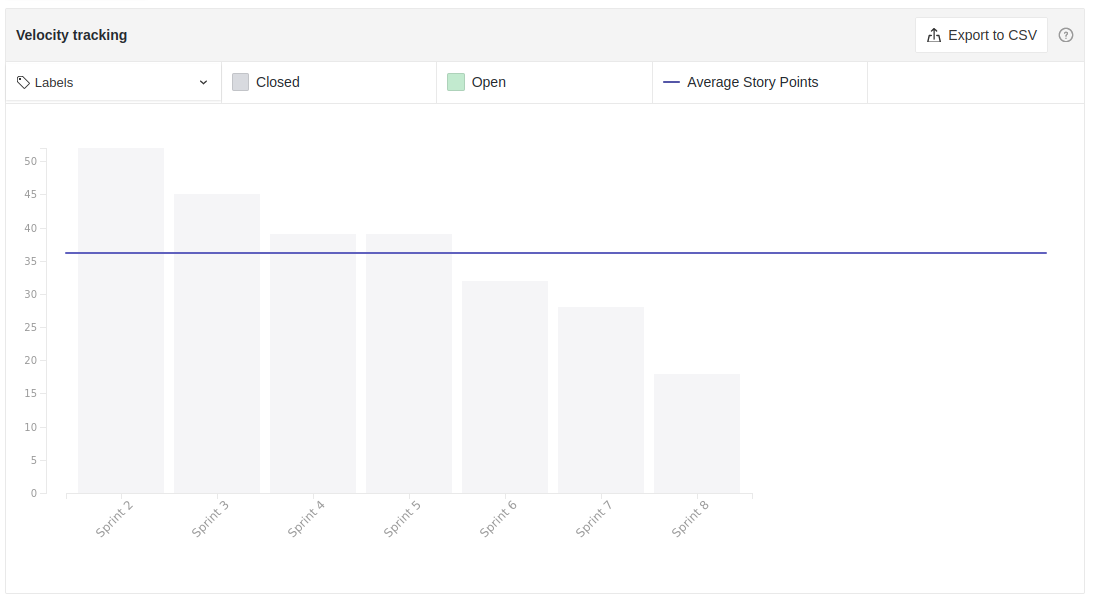
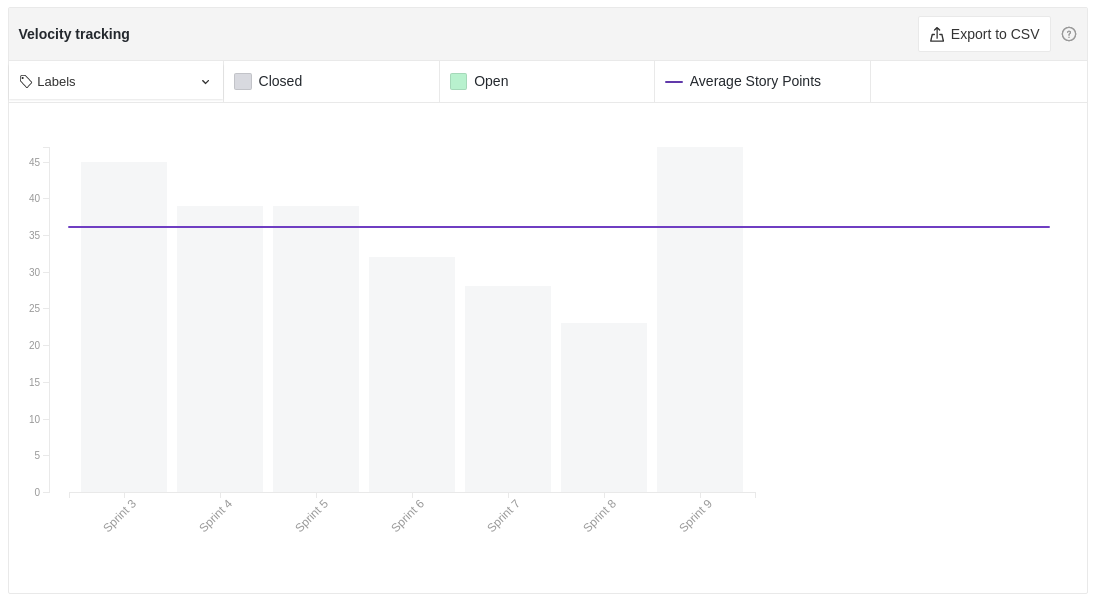
docs: fga-eps-mds/2020.2-Lend.it#180 Fix sp delivery points and velocity

diff --git a/_docs/gerência/sprint9/results.md b/_docs/gerência/sprint9/results.md
@@ -1,6 +1,6 @@
 # Resultados Sprint 09
 
-*Sprint* focada principalmente no gerenciamento do usuário (editar perfil) e na interação desse usuários com as solicitações de emprétimo.
+_Sprint_ focada principalmente no gerenciamento do usuário (editar perfil) e na interação desse usuários com as solicitações de empréstimo.
 
 ## Fechamento da Sprint
 
@@ -8,86 +8,80 @@
 
 |                             _Issue_                              |                Título                 |    _Status_     | Pontos |
 | :--------------------------------------------------------------: | :-----------------------------------: | :-------------: | :----: |
-| [#120](https://github.com/fga-eps-mds/2020.2-Lend.it/issues/120) | [US10] - Ver suas solicitações | _Concluído_ | 5 |
-| [#122](https://github.com/fga-eps-mds/2020.2-Lend.it/issues/122) | [US21] - confirmar emprestimo | _Concluído_ | 8 |
-| [#123](https://github.com/fga-eps-mds/2020.2-Lend.it/issues/123) | [US17] - mostrar dados para emprestar | _Concluído_ | 5 |
-| [#124](https://github.com/fga-eps-mds/2020.2-Lend.it/issues/124) | [FIX] Testes nos serviços Python | _Concluído_ | 3 | 
-| [#126](https://github.com/fga-eps-mds/2020.2-Lend.it/issues/126) | [FIX] LendCard | _Não Concluído_ | 3 |
-| [#127](https://github.com/fga-eps-mds/2020.2-Lend.it/issues/127) | [US04] - Recuperar senha | _Não Concluído_ | 5 |
-| [#128](https://github.com/fga-eps-mds/2020.2-Lend.it/issues/128) | [US06] - Editar senha | _Concluído_ | 5 |
-| [#129](https://github.com/fga-eps-mds/2020.2-Lend.it/issues/129) | [US08] - Editar localização | _Concluído_ | 5 |
-| [#130](https://github.com/fga-eps-mds/2020.2-Lend.it/issues/130) | Firebase | _Não Concluído_ | 8 |
-| [#131](https://github.com/fga-eps-mds/2020.2-Lend.it/issues/131) | [US05] - editar perfil | _Concluído_ | 5 |
-| [#180](https://github.com/fga-eps-mds/2020.2-Lend.it/issues/180) | Documentação Sprint 09 | _Não Concluído_ | 5 |
+| [#120](https://github.com/fga-eps-mds/2020.2-Lend.it/issues/120) |    [US10] - Ver suas solicitações     |   _Concluído_   |   5    |
+| [#122](https://github.com/fga-eps-mds/2020.2-Lend.it/issues/122) |     [US21] - confirmar emprestimo     |   _Concluído_   |   8    |
+| [#123](https://github.com/fga-eps-mds/2020.2-Lend.it/issues/123) | [US17] - mostrar dados para emprestar |   _Concluído_   |   5    |
+| [#124](https://github.com/fga-eps-mds/2020.2-Lend.it/issues/124) |   [FIX] Testes nos serviços Python    |   _Concluído_   |   3    |
+| [#126](https://github.com/fga-eps-mds/2020.2-Lend.it/issues/126) |            [FIX] LendCard             | _Não Concluído_ |   3    |
+| [#127](https://github.com/fga-eps-mds/2020.2-Lend.it/issues/127) |       [US04] - Recuperar senha        | _Não Concluído_ |   5    |
+| [#128](https://github.com/fga-eps-mds/2020.2-Lend.it/issues/128) |         [US06] - Editar senha         |   _Concluído_   |   5    |
+| [#129](https://github.com/fga-eps-mds/2020.2-Lend.it/issues/129) |      [US08] - Editar localização      |   _Concluído_   |   5    |
+| [#130](https://github.com/fga-eps-mds/2020.2-Lend.it/issues/130) |               Firebase                | _Não Concluído_ |   8    |
+| [#131](https://github.com/fga-eps-mds/2020.2-Lend.it/issues/131) |        [US05] - editar perfil         |   _Concluído_   |   5    |
+| [#180](https://github.com/fga-eps-mds/2020.2-Lend.it/issues/180) |        Documentação Sprint 09         |   _Concluído_   |   5    |
 
 </div>
 
-Pontos Planejados Concluídos: 36
+Pontos Planejados Concluídos: 41
 
-Pontos de Dívida Concluídos: 21
+Pontos de Dívida Concluídos: 00
 
-Pontos Não Agregados: 24
+Pontos Não Agregados: 16
 
 > [_Sprint_ _Backlog_](https://github.com/fga-eps-mds/2020.2-Lend.it/milestone/10?closed=1)
 
 ## Burndown
 
-O gráfico evidencia, como nas *sprints* anteriores, o padrão do time de finalizar as issues somente no sábado. Vale ressaltar que elas são feitas ao decorrer da semana, como evidencia o gráfico de produtividade.
+O gráfico evidencia, como nas _sprints_ anteriores, o padrão do time de finalizar as issues somente no sábado. Vale ressaltar que elas são feitas ao decorrer da semana, como evidencia o gráfico de produtividade.
 
 ![burndown](../../../assets/img/sprint9/burndown.png)
 
-
 ## Velocity
 
-É possível verificar no gráfico que houve uma diminuição nas entregas do time nessa *sprint*, enquanto que o valor esperado para essa entrega era de 40 pontos.
+O gráfico evidencia que houve um aumento de pontos planejados para essa _sprint_ provenientes do planejamento errado da semana anterior.
 
 ![velocity](../../../assets/img/sprint9/velocity.png)
 
 ## Riscos
 
-De acordo com o gráfico, podemos assumir que os riscos que tinham maior impacto mativeram a mesma pontuação da *sprint* anterior, porém alguns riscos que antes tinham uma pontuação menor, tiveram uma leve acentuada, principalmente por conta do aumento da complexidade.
+De acordo com o gráfico, podemos assumir que os riscos que tinham maior impacto mantiveram a mesma pontuação da _sprint_ anterior, porém alguns riscos que antes tinham uma pontuação menor, tiveram uma leve acentuada, principalmente por conta do aumento da complexidade.
 
 <iframe height="909" seamless frameborder="0" scrolling="yes" src="https://docs.google.com/spreadsheets/d/e/2PACX-1vSGve6AsoRvxahK_yskgryTE1aQStxGh6_ls8RDjuH0DrdupIi26AptTJj64YT4vspgkpsoBKA2MZTd/pubchart?oid=275401813&format=interactive")></iframe>
 
 ## Retrospectiva
 
-O quadro de empatia mostrou que o time está cada vez mais unido e bem empolgado com o desenvolvimento do projeto, apesar de que, nessa *sprint*, houve um aumento na carga de trabalho do semestre de maneira geral. Alem de que as issues estavam bastante atreladas, o que impediu alguns membros do time de trabalharem, pois era preciso que uma issue estivesse terminada para poder começar a outra.
-
-<iframe height="1100" src="https://docs.google.com/spreadsheets/d/14-4FE5zWRdmAMZf-d78Q09VtxlNoTsXXANuJDr_bht8/edit#gid=720149146"></iframe>
+O quadro de empatia mostrou que o time está cada vez mais unido e bem empolgado com o desenvolvimento do projeto, apesar de que, nessa _sprint_, houve um aumento na carga de trabalho do semestre de maneira geral. Alem de que as issues estavam bastante atreladas, o que impediu alguns membros do time de trabalharem, pois era preciso que uma issue estivesse terminada para poder começar a outra.
 
 <iframe height="1100" src="https://docs.google.com/spreadsheets/d/e/2PACX-1vTj1IyAJxxw19_Cq4hQ_79XLBX_i0j7eiWpLziOrktPOOr_dLWtZRZQcGtoepJl8LQeekhC2erEvBuL/pubhtml?gid=720149146&single=true"></iframe>
 
 ## Quadro de Conhecimento
 
-Como o acompanhamento da evolução do conhecimento é feito a cada 15 dias, não houveram alterações com relação a *sprint* anterior.
-
-<iframe height="600" src="https://docs.google.com/spreadsheets/d/e/2PACX-1vQt9zLphgqw_af_Kz6vaOhzGt4M4xnPEfbVTrtfh-CvbbsX1HziKhaXO5_nenI8iGToZQJNdfrqNvoJ/pubhtml?gid=1611743338&single=true"></iframe>
+Como o acompanhamento da evolução do conhecimento é feito a cada 15 dias, não houveram alterações com relação a _sprint_ anterior.
 
 <iframe height="600" src="https://docs.google.com/spreadsheets/d/e/2PACX-1vQt9zLphgqw_af_Kz6vaOhzGt4M4xnPEfbVTrtfh-CvbbsX1HziKhaXO5_nenI8iGToZQJNdfrqNvoJ/pubhtml?gid=1611743338&single=true"></iframe>
 
 ## Quadro de Sentimentos
 
-O quadro de sentimento mostra um humor bastante positivo do time, podendo ser atribuído como causa, a conclusão de atividades de outras matérias bem como a finalização das issues da *sprint*.
+O quadro de sentimento mostra um humor bastante positivo do time, podendo ser atribuído como causa, a conclusão de atividades de outras matérias bem como a finalização das issues da _sprint_.
 
 <iframe height="627" seamless frameborder="0" scrolling="no" src="https://docs.google.com/spreadsheets/d/e/2PACX-1vQfmC1hXrOlqXL8ZBsKvi7WktZEdpPOwa5KIKgUKkee2U96ua7g0-bkQL0XZRrCYFGCVWSukZ8ActfD/pubchart?oid=414867677&format=interactive"></iframe>
 <iframe height="509" seamless frameborder="0" scrolling="no" src="https://docs.google.com/spreadsheets/d/e/2PACX-1vQYTAqkgguUNHq1_L4lwKSwU04oXAoBtm2tj4GrTBb9ND0mj0pBrldy-VPLaeM5fp0KIPX7SbWDH9ia/pubchart?oid=708314367&format=interactive"></iframe>
 <iframe height="371" seamless frameborder="0" scrolling="no" src="https://docs.google.com/spreadsheets/d/e/2PACX-1vR7kDZjRAC-EVBplLf7K6B9FQOQW3As3S17ffv4DMo6_dn0-c43DWpxoylg1mpDB41mPCOX0Dcp34bB/pubchart?oid=435319136&format=interactive"></iframe>
 
-## Registro de Presença nas *Dailies*
+## Registro de Presença nas _Dailies_
 
-|     Nome    |   Segunda Feira   | Terça Feira      | Quarta Feira     | Quinta Feira      | Sexta Feira      |
-| :---------: |:-----------------:|:----------------:|:----------------:|:-----------------:|:----------------:|
-| Ésio        |         ✔         |         ✘        |         ✘        |         ✔         |         ✔      |
-| Lucas       |         ✔         |         ✔        |         ✔        |         ✔         |         ✔      |
-| M. Maia     |         ✘         |         ✔        |         ✔        |         ✔         |         ✔      |
-| M. Afonso   |         ✔         |         ✘        |         ✔        |         ✔         |         ✔      |
-| M. Monteiro |         ✔         |         ✘        |         ✘        |         ✔         |         ✔      |
-| Rogério     |         ✔         |         ✔        |         ✔        |         ✘         |         ✘      |
-| Thaís       |         ✔         |         ✔        |         ✔        |         ✘         |         ✔      |
-| Thiago      |         ✔         |         ✘        |         ✔        |         ✔         |         ✔      |
-| Vinicius    |         ✔         |         ✔        |         ✔        |         ✔         |         ✔      |
-| Youssef     |         ✘         |         ✔        |         ✔        |         ✔         |         ✔      |
-
+|    Nome     | Segunda Feira | Terça Feira | Quarta Feira | Quinta Feira | Sexta Feira |
+| :---------: | :-----------: | :---------: | :----------: | :----------: | :---------: |
+|    Ésio     |       ✔       |      ✘      |      ✘       |      ✔       |      ✔      |
+|    Lucas    |       ✔       |      ✔      |      ✔       |      ✔       |      ✔      |
+|   M. Maia   |       ✘       |      ✔      |      ✔       |      ✔       |      ✔      |
+|  M. Afonso  |       ✔       |      ✘      |      ✔       |      ✔       |      ✔      |
+| M. Monteiro |       ✔       |      ✘      |      ✘       |      ✔       |      ✔      |
+|   Rogério   |       ✔       |      ✔      |      ✔       |      ✘       |      ✘      |
+|    Thaís    |       ✔       |      ✔      |      ✔       |      ✘       |      ✔      |
+|   Thiago    |       ✔       |      ✘      |      ✔       |      ✔       |      ✔      |
+|  Vinicius   |       ✔       |      ✔      |      ✔       |      ✔       |      ✔      |
+|   Youssef   |       ✘       |      ✔      |      ✔       |      ✔       |      ✔      |
 
 ## Avaliação do Scrum Master
 
